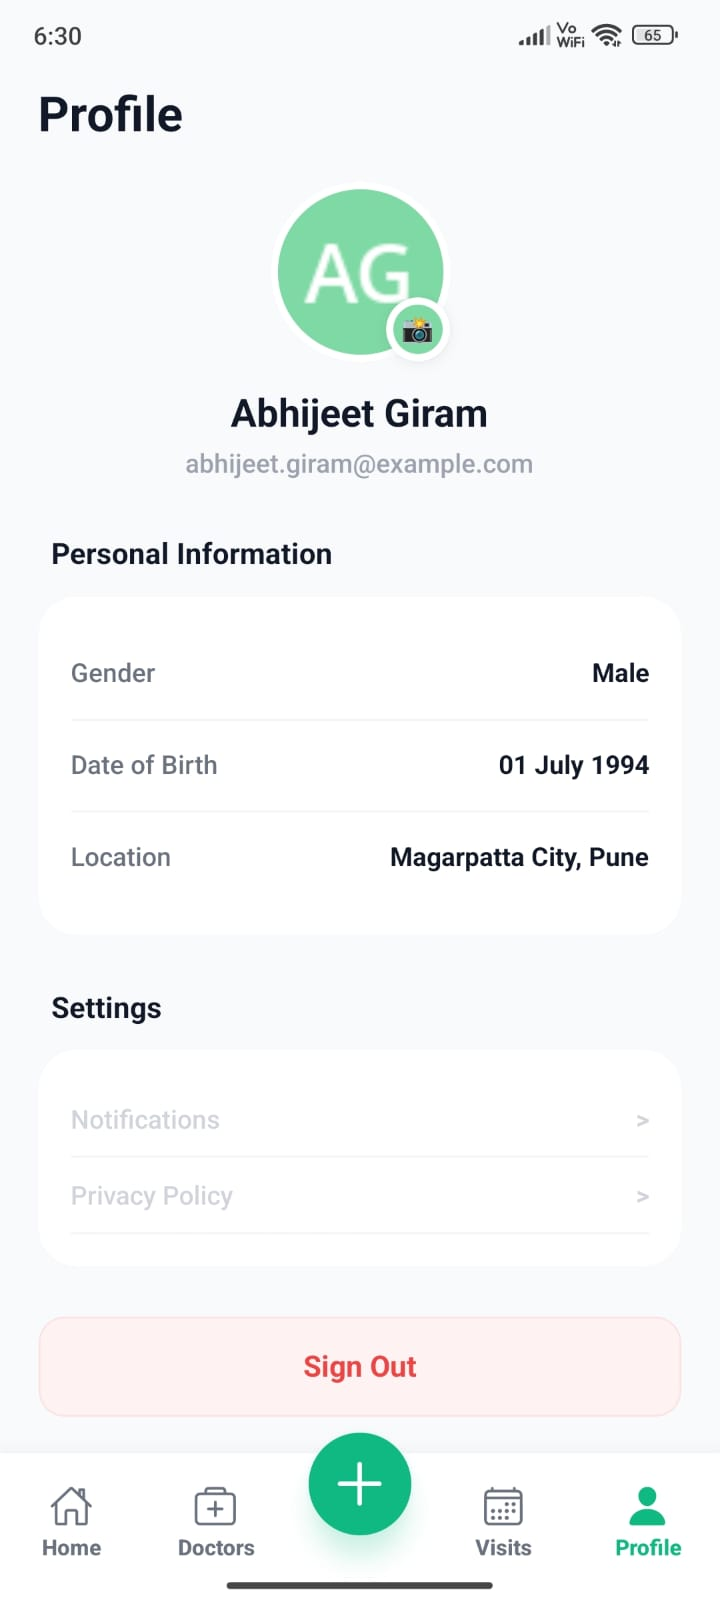
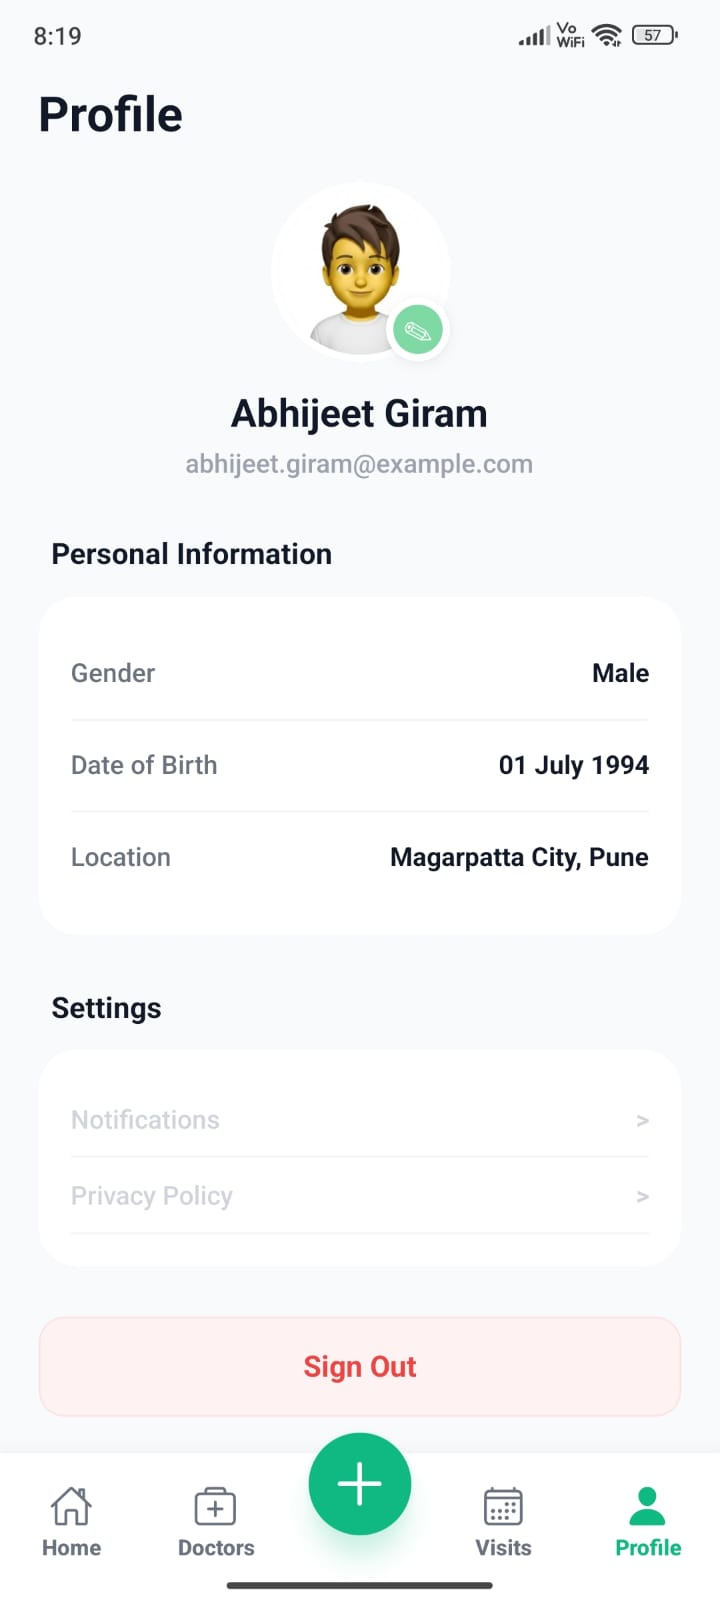
feat: enhance profile photo management with dynamic selection and update flow; add App Experience documentation

Changed region(s): [[0.3667, 0.0938, 0.6417, 0.2188], [0.0611, 0.0, 0.1222, 0.0312]]

diff --git a/app/(tabs)/profile.tsx b/app/(tabs)/profile.tsx
@@ -18,6 +18,80 @@ export default function Profile() {
   // Created a local state to hold the profile image
   const [profileImage, setProfileImage] = useState(USER_PROFILE.image);
 
+  // Shared options to ensure consistency between gallery/camera crops
+  const pickerOptions = {
+    allowsEditing: true, // Let user crop to a square
+    aspect: [1, 1] as [number, number], // Force a square ratio for circular mask
+    quality: 0.7, // Compress for mobile performance
+    mediaTypes: ImagePicker.MediaTypeOptions.Images, // Don't pick videos
+  };
+
+  // Handles the Gallery (Media Library) flow, including permission request and image picking
+  const handlePickFromGallery = async () => {
+    // Request Gallery (Media Library) Permission
+    const { status } = await ImagePicker.requestMediaLibraryPermissionsAsync();
+
+    if (status !== "granted") {
+      Alert.alert(
+        "Permission Denied",
+        "Sorry, we need gallery access to change your picture.",
+      );
+      return;
+    }
+
+    // Launch the standard device picker (file system)
+    const result = await ImagePicker.launchImageLibraryAsync(pickerOptions);
+
+    // Dynamic State Update with file:// URI
+    if (!result.canceled) {
+      setProfileImage(result.assets[0].uri);
+    }
+  };
+
+  // Handles the Camera flow, including permission request and launching the camera interface
+  const handleLaunchCamera = async () => {
+    // Request Camera Permission
+    const { status } = await ImagePicker.requestCameraPermissionsAsync();
+
+    if (status !== "granted") {
+      Alert.alert(
+        "Permission Denied",
+        "We need camera access to change your picture.",
+      );
+      return;
+    }
+
+    // Launch the active camera stream
+    const result = await ImagePicker.launchCameraAsync(pickerOptions);
+
+    // Dynamic State Update
+    if (!result.canceled) {
+      setProfileImage(result.assets[0].uri);
+    }
+  };
+
+  // Function to manage the profile photo update flow, giving users the choice between camera and gallery
+  const handleManageProfilePhoto = () => {
+    Alert.alert(
+      "Update Profile Photo",
+      "Would you like to take a new photo or choose one from your gallery?",
+      [
+        {
+          text: "Choose from Gallery",
+          onPress: handlePickFromGallery,
+        },
+        {
+          text: "Take a Photo",
+          onPress: handleLaunchCamera,
+        },
+        {
+          text: "Cancel",
+          style: "cancel",
+        },
+      ],
+    );
+  };
+
   // Function to handle Camera or Gallery
   const handleEditPhoto = async () => {
     // Ask for permission
@@ -43,6 +117,7 @@ export default function Profile() {
     }
   };
 
+  // Reusable component for displaying profile information rows
   const InfoRow = ({
     label,
     value,
@@ -70,16 +145,18 @@ export default function Profile() {
         <View className="items-center mb-8">
           <View className="relative shadow-sm shadow-brand-green/20 rounded-full mb-4">
             <Image
+              // Still uses your solid state logic here
               source={{ uri: profileImage }}
               className="w-28 h-28 rounded-full border-4 border-white bg-gray-200"
             />
-            {/* The Edit Button now triggers handleEditPhoto */}
+            {/* Overlay button for editing the profile picture */}
             <TouchableOpacity
-              onPress={handleEditPhoto}
+              onPress={handleManageProfilePhoto}
               className="absolute bottom-0 right-0 bg-brand-green w-10 h-10 rounded-full border-4 border-white items-center justify-center shadow-md"
               activeOpacity={0.8}
             >
-              <Text className="text-white text-base">📸</Text>
+              {/* Changed icon for general edit, not just camera */}
+              <Text className="text-white text-lg">✎</Text>
             </TouchableOpacity>
           </View>
 
@@ -91,7 +168,7 @@ export default function Profile() {
           </Text>
         </View>
 
-        {/* Rest of your Personal Information & Settings cards */}
+        {/* Personal Information Card */}
         <Text className="text-lg font-bold text-gray-900 mb-3 ml-2">
           Personal Information
         </Text>

diff --git a/README.md b/README.md
@@ -18,7 +18,7 @@ The application utilizes **Expo Router** for file-based navigation:
 - **(tabs)/:**
   - `home`: Dashboard featuring debounced search and Recent Activity slider.
   - `doctors`: Global discovery with keyword-based filtering and specialized pills.
-  - `profile`: User management with **Real Camera** integration.
+  - `profile`: User management with **Dynamic Image Selection** using Camera and Gallery integration.
 - **doctor/[id]:** Dynamic route featuring **Shared Element Transitions** for seamless image gliding.
 
 ---
@@ -33,74 +33,13 @@ Here is a recording of the application flow on a physical device.
 
 ---
 
-## 📸 App Experience
+## 📸 App Experience & Screens
 
-Explore the intuitive user interface and seamless navigation through key screens of the SelfCare App, showcasing authentication, doctor discovery, appointment booking, and profile management.
+Click the link below to view the full, high-fidelity gallery of the SelfCare App interface, featuring optimized vertical screenshots and cohesive flow demos.
 
-<div align="center">
-  <table>
-    <tr>
-      <td align="center"><b>1. Sign In</b></td>
-      <td align="center"><b>2. Verify</b></td>
-    </tr>
-    <tr>
-      <td><kbd><img src="docs/assets/01-sign-in.jpeg" alt="Sign In" width="330" /></kbd></td>
-      <td><kbd><img src="docs/assets/02-verify.jpeg" alt="Home" width="320" /></kbd></td>
-    </tr>
-  </table>
-</div>
+### [👉 View Full App Experience Documentation](docs/AppExperience.md)
 
-<div align="center">
-  <table>
-    <tr>
-      <td align="center"><b>3. Home</b></td>
-      <td align="center"><b>4. Doctor List</b></td>
-    </tr>
-    <tr>
-      <td><kbd><img src="docs/assets/03-home.jpeg" alt="OTP Verify" width="320" /></kbd></td>
-      <td><kbd><img src="docs/assets/04-doctor-list.jpeg" alt="Doctors" width="320" /></kbd></td>
-    </tr>
-  </table>
-</div>
-
-<div align="center">
-  <table>
-    <tr>
-      <td align="center"><b>5. Doctor Details</b></td>
-      <td align="center"><b>6. Map Location</b></td>
-    </tr>
-    <tr>
-      <td><kbd><img src="docs/assets/05-doctor-details-01.jpeg" alt="Profile" width="330" /></kbd></td>
-      <td><kbd><img src="docs/assets/06-doctor-details-02.jpeg" alt="Transition" width="320" /></kbd></td>
-    </tr>
-  </table>
-</div>
-
-<div align="center">
-  <table>
-    <tr>
-      <td align="center"><b>7. Payment</b></td>
-      <td align="center"><b>8. Appointment</b></td>
-    </tr>
-    <tr>
-      <td><kbd><img src="docs/assets/07-payment.jpeg" alt="Profile" width="350" /></kbd></td>
-      <td><kbd><img src="docs/assets/08-appointment.jpeg" alt="Transition" width="320" /></kbd></td>
-    </tr>
-  </table>
-</div>
-
-<div align="center">
-  <table>
-    <tr>
-      <td align="center"><b>9. Profile</b></td>
-      <td align="center"><b>10. App</b></td>
-    </tr>
-    <tr>
-      <td><kbd><img src="docs/assets/09-profile.jpeg" alt="Profile" width="310" /></kbd></td>
-      <td><kbd><img src="docs/assets/10-app.jpeg" alt="Transition" width="320" /></kbd></td>
-    </tr>
-  </table>
-</div>
+_(Redirects to detailed documentation in the `docs` folder featuring onboarding, discovery, bookings, and profile screens.)_
 
 ---
 
@@ -111,7 +50,7 @@ Explore the intuitive user interface and seamless navigation through key screens
 - **Animations:** `react-native-reanimated` (Shared Transitions & Worklets)
 - **Navigation:** `expo-router`
 - **Maps:** `react-native-maps` (Real Native Integration)
-- **Camera:** `expo-image-picker` (Real Hardware Access)
+- **Camera/Gallery:** `expo-image-picker` (Real Hardware Access to handle dynamic camera/gallery selection and crop workflows).
 - **Icons:** Custom "Plus-Plus" (++ logo) branding for high-end healthcare feel.
 
 ---
@@ -121,7 +60,7 @@ Explore the intuitive user interface and seamless navigation through key screens
 - **Mock Data:** Optimized JSON constants (`DOCTORS_LIST`, `RECENT_ACTIVITIES`) for instant loading and architectural modularity.
 - **Mock Payment:** A simulated checkout flow for appointment bookings.
 - **Real Integration:**
-  - **Camera:** Fully functional profile picture capture and update.
+  - **Camera/Gallery:** Fully functional dynamic profile picture state updates via native permission workflows.
   - **Maps:** Real-time native coordinate rendering in Pune locations.
   - **Search:** Sophisticated debounce logic (600ms) to prevent unnecessary re-renders.
 
@@ -148,6 +87,7 @@ Explore the intuitive user interface and seamless navigation through key screens
 
 ### Pros
 
+- **Decoupled User Content:** Architecture successfully separates hardcoded system assets from dynamic user content (profile images), preparing the app for backend integration.
 - **Debounced Search:** Enhances UX by eliminating "typing lag."
 - **Utility Styling:** NativeWind ensures a lean stylesheet and rapid UI iteration.
 - **Shared Transitions:** Provides a premium, native-app feel usually found in top-tier apps.

diff --git a/docs/AppExperience.md b/docs/AppExperience.md
@@ -1,0 +1,72 @@
+# 📸 SelfCare App Experience
+
+Explore the intuitive user interface and seamless navigation through key screens of the SelfCare App, showcasing authentication, doctor discovery, appointment booking, and profile management.
+
+<div align="center">
+  <table>
+    <tr>
+      <td align="center"><b>1. Sign In</b></td>
+      <td align="center"><b>2. Verify</b></td>
+    </tr>
+    <tr>
+      <td><kbd><img src="assets/01-sign-in.jpeg" alt="Sign In" width="330" /></kbd></td>
+      <td><kbd><img src="assets/02-verify.jpeg" alt="Verify Screen" width="320" /></kbd></td>
+    </tr>
+  </table>
+</div>
+
+<div align="center">
+  <table>
+    <tr>
+      <td align="center"><b>3. Home</b></td>
+      <td align="center"><b>4. Doctor List</b></td>
+    </tr>
+    <tr>
+      <td><kbd><img src="assets/03-home.jpeg" alt="Home Dashboard" width="320" /></kbd></td>
+      <td><kbd><img src="assets/04-doctor-list.jpeg" alt="Doctor List" width="320" /></kbd></td>
+    </tr>
+  </table>
+</div>
+
+<div align="center">
+  <table>
+    <tr>
+      <td align="center"><b>5. Doctor Details</b></td>
+      <td align="center"><b>6. Map Location</b></td>
+    </tr>
+    <tr>
+      <td><kbd><img src="assets/05-doctor-details-01.jpeg" alt="Doctor Details" width="330" /></kbd></td>
+      <td><kbd><img src="assets/06-doctor-details-02.jpeg" alt="Doctor Map" width="320" /></kbd></td>
+    </tr>
+  </table>
+</div>
+
+<div align="center">
+  <table>
+    <tr>
+      <td align="center"><b>7. Payment</b></td>
+      <td align="center"><b>8. Appointment</b></td>
+    </tr>
+    <tr>
+      <td><kbd><img src="assets/07-payment.jpeg" alt="Mock Payment" width="350" /></kbd></td>
+      <td><kbd><img src="assets/08-appointment.jpeg" alt="Appointment Confirmation" width="320" /></kbd></td>
+    </tr>
+  </table>
+</div>
+
+<div align="center">
+  <table>
+    <tr>
+      <td align="center"><b>9. Profile</b></td>
+      <td align="center"><b>10. App</b></td>
+    </tr>
+    <tr>
+      <td><kbd><img src="assets/09-profile.jpeg" alt="User Profile" width="310" /></kbd></td>
+      <td><kbd><img src="assets/10-app.jpeg" alt="App" width="320" /></kbd></td>
+    </tr>
+  </table>
+</div>
+
+---
+
+[<-- Back to Overview](../README.md)
